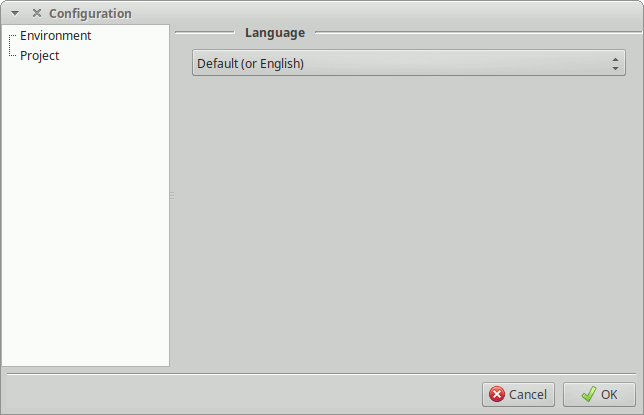
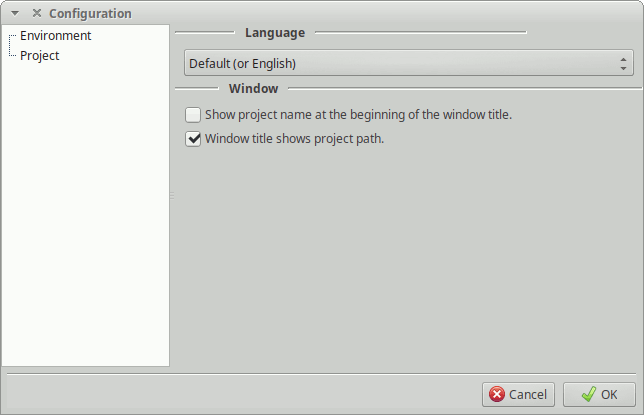
+ Added an option that allows to select the order of directories in project   tree. * Directories are properly ordered in project tree.

diff --git a/docs/usermanual/html/basics.html b/docs/usermanual/html/basics.html
@@ -15,19 +15,19 @@
   <p><img src="images/first-view.png" alt="First execution"></p>
   <h2 id="configuration">Configuration</h2>
   <p>Before to start using MLSDE it is recommendable to open the <a href="configuration.html"><em>Configuration
-  Dialog</em></a>.  To do so select in the top menu <code>MLSDE &gt;
+  Dialog</em></a>.&nbsp; To do so select in the top menu <code>MLSDE &gt;
   Configuration...</code> (this is, the top option of the <code>MLSDE</code> menu).</p>
   <p><img src="images/cfg-dialog.png" alt="Configuration dialog"></p>
-  <p>You can select the language for the application.  At the moment there are only
-  two languages:  English and Spanish.  In most cases you should select <code>Default
+  <p>You can select the language for the application.&nbsp; At the moment there are only
+  two languages:  English and Spanish.&nbsp; In most cases you should select <code>Default
   (or English)</code> as it will select the same language than your operating system
   (if available).</p>
-  <p>Once selected your language click in the <code>Ok</code> button.  Maybe a message box
+  <p>Once selected your language click in the <code>Ok</code> button.&nbsp; Maybe a message box
   appears telling that you need to restart MLSDE to make the changes effective.
-  Close it.  Close MLSDE clicking in the <em>Close Window</em> button or <code>MLSDE &gt; Quit</code>
+  Close it.&nbsp; Close MLSDE clicking in the <em>Close Window</em> button or <code>MLSDE &gt; Quit</code>
   in the menu and open MLSDE again:  now it should use the selected language.</p>
   <h2 id="open-files">Open Files</h2>
-  <p>To open a file you must open a <em>project</em> first.  On MLSDE a project is a
+  <p>To open a file you must open a <em>project</em> first.&nbsp; On MLSDE a project is a
   directory.</p>
   <p>To open a project you can click on menu <code>Project &gt; Open...</code> or click with the
   <em>mouse right button</em> in the left part of the window to open the <strong>Project Popup
@@ -36,20 +36,20 @@
   <img src="images/open-project-popup.png" alt="Open project from pop-up menu"></p>
   <p>Also, you can use the <code>Open project</code> button from the tool bar.</p>
   <p><img src="images/open-project-button.png" alt="Open project from tool bar"></p>
-  <p>Select the project directory in the dialog and accept.  The project tree will
-  appear on the left.  To open a file just do double-click on the file name and
+  <p>Select the project directory in the dialog and accept.&nbsp; The project tree will
+  appear on the left.&nbsp; To open a file just do double-click on the file name and
   the source editor will appear on the right.</p>
   <p><img src="images/open-file.png" alt="Open file"></p>
   <h2 id="edit-files">Edit Files</h2>
-  <p>Current version supports very basic edition.  Select text by dragging the mouse
+  <p>Current version supports very basic edition.&nbsp; Select text by dragging the mouse
   and then use <code>Ctrl+C</code>, <code>Ctrl+X</code> and <code>Ctrl+V</code> to <em>copy</em>, <em>cut</em> and <em>paste</em>.</p>
   <p>Future versions will include more edition tools and options.</p>
-  <p>Modified files are marked by an asterisk in the tab.  Modified lines are marked
+  <p>Modified files are marked by an asterisk in the tab.&nbsp; Modified lines are marked
   with a yellow line in the left <em>gutter</em>.</p>
   <p><img src="images/modified-file.png" alt="Modified file"></p>
   <h2 id="save-files">Save Files</h2>
   <p>To save the modified files you can use the <code>File &gt; Save file</code> menu option or
-  the <code>Save file</code> button.  You can also save all modified files by selecting
+  the <code>Save file</code> button.&nbsp; You can also save all modified files by selecting
   <code>Save all</code>.</p>
   <p><img src="images/save-file-menu.png" alt="Saving file">
   <img src="images/save-file-button.png" alt="Saving file"></p>

diff --git a/docs/usermanual/html/concepts.html b/docs/usermanual/html/concepts.html
@@ -10,19 +10,19 @@
  </head>
  <body>
   <h1 id="basic-concepts">Basic Concepts</h1>
-  <p>This guide is written from the perspective of a Windows user.  Most instructions
+  <p>This guide is written from the perspective of a Windows user.&nbsp; Most instructions
   only require trivial changes to work on other platforms.</p>
   <h2 id="the-directories">The Directories</h2>
   <p>Application files (like translations) are in subdirectories in the <code>bin</code>
-  subdirectory.  You should not change such files.</p>
+  subdirectory.&nbsp; You should not change such files.</p>
   <p>User based files (like the configuration) live under the <em>user configuration
-  directory</em>.  This directory is a platform-dependent location:</p>
+  directory</em>.&nbsp; This directory is a platform-dependent location:</p>
   <ul>
   <li><strong>Windows</strong>:  <code>%APPDATA%\mlsde</code></li>
   <li><strong>Linux</strong>: <code>~/.config/mlsde</code></li>
   </ul>
   <p>If you have problems with configuration just remove the <code>mlsde.cfg</code> file that
-  is in the user configuration directory.  This way the next time you run MLSDE
+  is in the user configuration directory.&nbsp; This way the next time you run MLSDE
   it will use the default configuration.</p>
  </body>
 </html>

diff --git a/docs/usermanual/html/cfg-project.html b/docs/usermanual/html/cfg-project.html
@@ -16,9 +16,11 @@
      <header><h2 id="files-and-directories">Files and Directories</h2></header>
      <p>This section allows to configure what files and directories will be shown in the project view.</p>
      <ul>
+       <li><strong>Directory depth.</strong>  This is to select how deep the directory scan will work.&nbsp; A value between <code>3</code> and <code>5</code> is good most cases.&nbsp; Do not put a big number or it would take too long to scan the project directory.</li>
+       <li><strong>Directory order.</strong>  Allows to change how the directories will be ordered in the project tree.</li>
        <li><strong>Show hidden files.</strong>  If not checked, hidden files will be ignored.</li>
-       <li><strong>Show hidden directories.</strong>  If not checked, hidden directories will be ignored.</li>
-       <li><strong>Directory depth.</strong>  This is to select how deep the directory scan will work.  A value between <code>3</code> and <code>5</code> is good most cases.  Do not put a big number or it would take too long to scan the project directory.</li>
+       <li><strong>Show hidden directories.</strong>  If not checked, hidden directories will be
+	 ignored.</li>
      </ul>
    </section>
  </body>

diff --git a/docs/usermanual/html/configuration.html b/docs/usermanual/html/configuration.html
@@ -16,10 +16,10 @@
   <p>The configuration dialog is divided in two parts:  The <em>configuration sections</em>
   on the left and the <em>configuration options</em> on the right.</p>
   <p><img src="images/cfg-dialog.png" alt="Configuration dialog"></p>
-  <p>Select the section you want to configure on the left with mouse.  Then change
-  the options on the right.  Once you finish, click on the <code>Ok</code> button at the
+  <p>Select the section you want to configure on the left with mouse.&nbsp; Then change
+  the options on the right.&nbsp; Once you finish, click on the <code>Ok</code> button at the
   bottom to save the changes or <code>Cancel</code> to abort them.</p>
-  <p>Some options need to close and open MLSDE to be effective.  In such cases a
+  <p>Some options need to close and open MLSDE to be effective.&nbsp; In such cases a
   message box will appear.</p>
   <p>If you have problems with the configuration, you can reset it by removing the
   configuration file at <a href="concepts.html#the-directories">the user directory</a>.</p>

diff --git a/docs/usermanual/html/install.html b/docs/usermanual/html/install.html
@@ -10,8 +10,8 @@
  </head>
  <body>
    <header><h1>Installation</h1></header>
-   <p>At the moment, no installation packages are included.  You must compile it by yourself.  To do so, you must install <a href="https://www.getlazarus.org/">Lazarus</a> first.</p>
-   <p>Once installed, open the MLSDE project file (<code>src/mlsde.lpi</code>).  Then compile by selecting the menu option <code>Run &gt; Compile</code>.  The executable will be at the <code>bin</code> directory.</p>
+   <p>At the moment, no installation packages are included.&nbsp; You must compile it by yourself.&nbsp; To do so, you must install <a href="https://www.getlazarus.org/">Lazarus</a> first.</p>
+   <p>Once installed, open the MLSDE project file (<code>src/mlsde.lpi</code>).&nbsp; Then compile by selecting the menu option <code>Run &gt; Compile</code>.&nbsp; The executable will be at the <code>bin</code> directory.</p>
    <p>Now copy the content of the <code>bin</code> directory, including subdirectories, to the final place.</p>
  </body>
 </html>

diff --git a/docs/usermanual/html/cfg-environment.html b/docs/usermanual/html/cfg-environment.html
@@ -9,8 +9,13 @@
   <link rel="shortcut icon" href="favicon.ico" />
  </head>
  <body>
-   <header><h1>Environment Configuration</h1></header>
-   <picture><img src="images/cfg-environment.png" alt="Environment configuration section"></picture>
-   <p>At the moment, only the language selection is available.</p>
+   <header><h1 id="environment-configuration">Environment configuration</h1></header>
+   <p>Here you can change how MLSDE looks and works.</p>
+   <p><img src="images/cfg-environment.png" alt="Environment configuration"></p>
+   <h2 id="language">Language</h2>
+   <p>You can select the language from the drop down.&nbsp; Best option is <code>Default (or English)</code>.</p>
+   <h2 id="window">Window</h2>
+   <p>Here you can select how the main window works.</p>
+   <p>At the moment you can select the information that appears in the title.</p>
  </body>
 </html>

diff --git a/docs/usermanual/html/toc.html b/docs/usermanual/html/toc.html
@@ -47,7 +47,10 @@
     <h2>Configuration</h2>
     <ul>
       <li><a href="configuration.html" target="content">Configuration Overview</a></li>
-      <li><a href="cfg-environment.html" target="content">Enfironment Configuration</a></li>
+      <li><a href="cfg-environment.html" target="content">Enfironment Configuration</a><ul>
+	<li><a href="cfg-environment.html#language" target="content">Language</a></li>
+	<li><a href="cfg-environment.html#window" target="content">Window</a></li>
+      </ul></li>
       <li><a href="cfg-project.html" target="content">Project Configuration</a><ul>
 	<li><a href="cfg-project.html#files-and-directories" target="content">Files and Directories</a></li>
       </ul></li>

diff --git a/docs/usermanual/src/cfg-project.md b/docs/usermanual/src/cfg-project.md
@@ -7,9 +7,11 @@
 This section allows to configure what files and directories will be shown in
 the project view.
 
-* **Show hidden files.**  If not checked, hidden files will be ignored.
-* **Show hidden directories.**  If not checked, hidden directories will be
-  ignored.
 * **Directory depth.**  This is to select how deep the directory scan will
   work.  A value between `3` and `5` is good most cases.  Do not put a big
   number or it would take too long to scan the project directory.
+* **Directory order.**  Allows to change how the directories will be ordered
+  in the project tree.
+* **Show hidden files.**  If not checked, hidden files will be ignored.
+* **Show hidden directories.**  If not checked, hidden directories will be
+  ignored.

diff --git a/docs/usermanual/src/cfg-environment.md b/docs/usermanual/src/cfg-environment.md
@@ -1,5 +1,16 @@
 # Environment configuration #
 
+Here you can change how MLSDE looks and works.
+
 ![Environment configuration](images/cfg-environment.png)
 
-At the moment, only the language selection is available.
+## Language ##
+
+You can select the language from the drop down.  Best option is `Default (or
+English)`.
+
+## Window ##
+
+Here you can select how the main window works.
+
+At the moment you can select the information that appears in the title.
